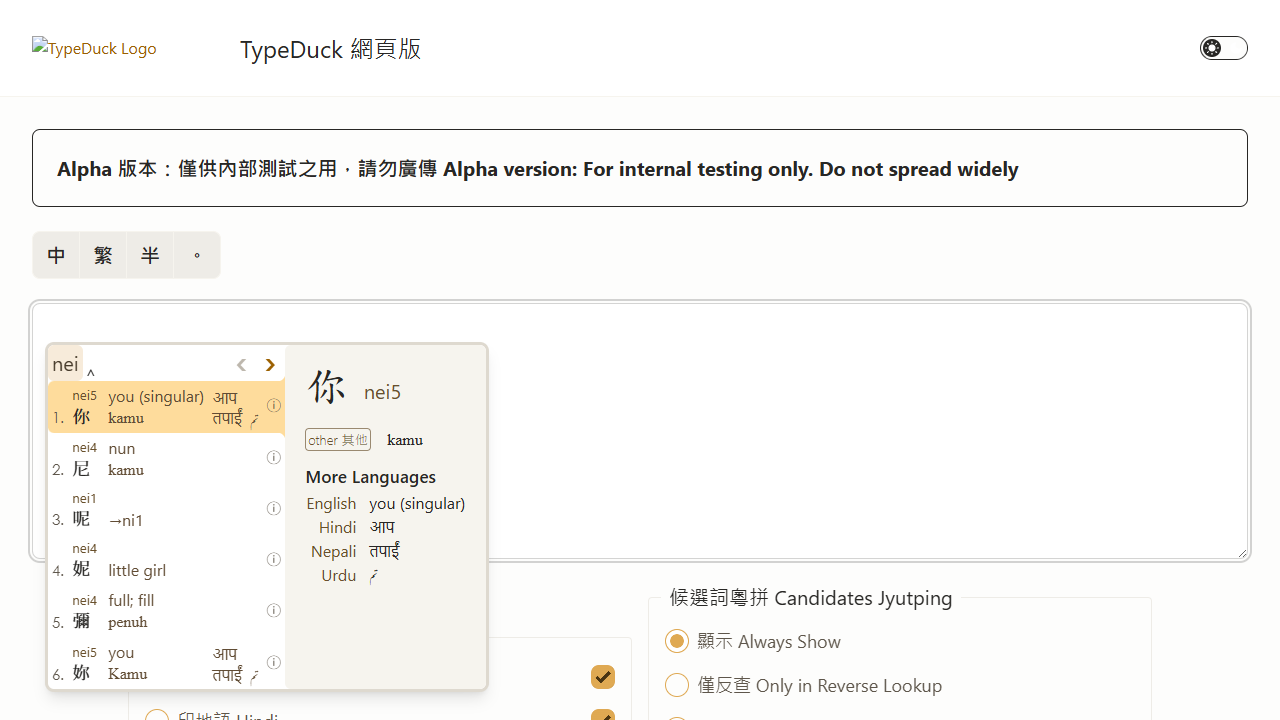
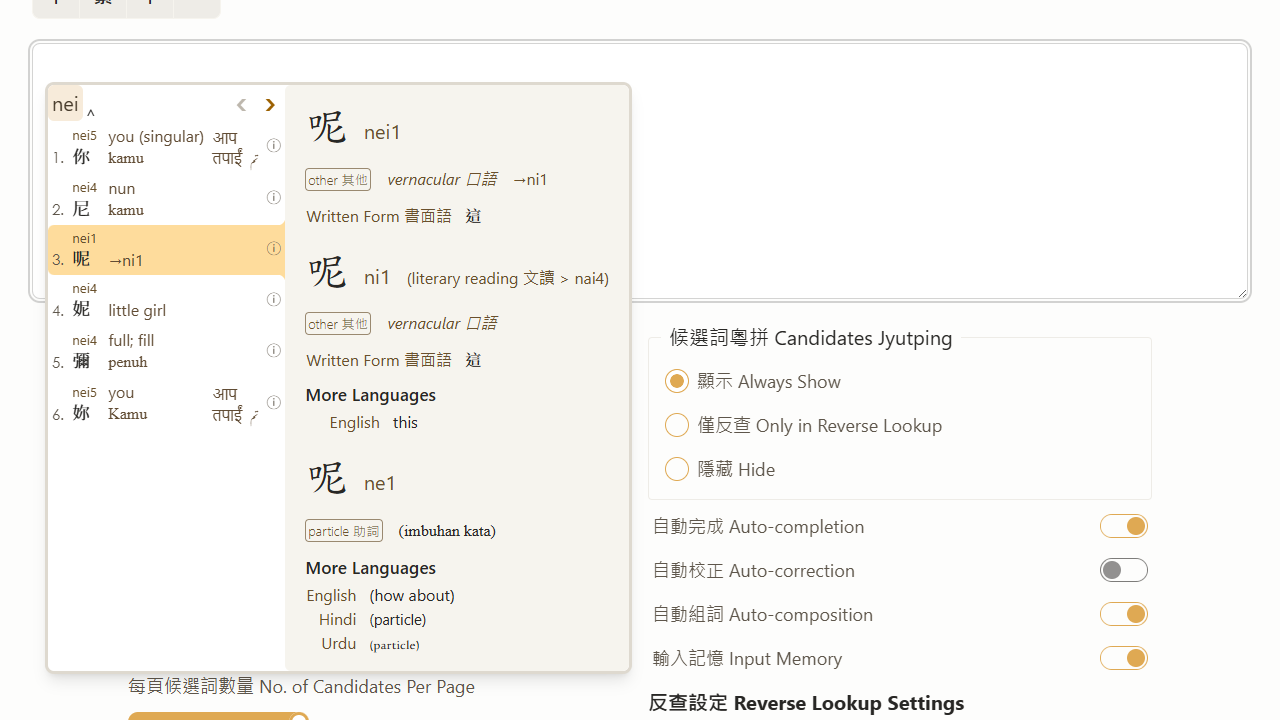
docs(01-02): replace dictionary screenshot with third candidate detail
- capture scrolled multilingual dictionary detail for third candidate 呢
- update fixture metadata to document scroll then hover behavior

diff --git a/.planning/product/TYPEDUCK-WEB-ALPHA-FIXTURES-2026-06-23.md b/.planning/product/TYPEDUCK-WEB-ALPHA-FIXTURES-2026-06-23.md
@@ -34,7 +34,7 @@ Supporting assets:
 - `web-alpha-fixtures/2026-06-23/screenshots/dictionary-detail-desktop-1280x720.png` - partial/blocked, no file created because the dictionary panel did not appear under controlled Playwright hover/touch attempts
 - `web-alpha-fixtures/2026-06-23/screenshots/settings-multilingual-indonesian-main-desktop-1280x720.png` - captured with all Display Languages enabled and Indonesian selected as main
 - `web-alpha-fixtures/2026-06-23/screenshots/candidate-multilingual-indonesian-main-desktop-1280x720.png` - captured with all Display Languages enabled and Indonesian selected as main
-- `web-alpha-fixtures/2026-06-23/screenshots/dictionary-detail-multilingual-indonesian-main-desktop-1280x720.png` - captured after physically moving the mouse over the first candidate cell
+- `web-alpha-fixtures/2026-06-23/screenshots/dictionary-detail-multilingual-indonesian-main-desktop-1280x720.png` - captured after scrolling down and physically moving the mouse over the third candidate cell for 呢
 
 ## Settings
 
@@ -105,7 +105,7 @@ Visual reference:
 - `web-alpha-fixtures/2026-06-23/screenshots/dictionary-detail-multilingual-indonesian-main-desktop-1280x720.png`
 - Viewport: 1280x720
 - Status: baseline partial, multilingual captured
-- Limitation: The original baseline dictionary-detail screenshot remains partial because the first automation did not move across a concrete candidate cell. The multilingual Indonesian-main dictionary screenshot was captured after physically moving the mouse across the first candidate cell, which matches the Web alpha behavior that prevents flicker when the pointer is merely resting on candidates during typing.
+- Limitation: The original baseline dictionary-detail screenshot remains partial because the first automation did not move across a concrete candidate cell. The multilingual Indonesian-main dictionary screenshot was captured after scrolling down and physically moving the mouse across the third candidate cell for 呢, which matches the Web alpha behavior that prevents flicker when the pointer is merely resting on candidates during typing.
 
 Dictionary fields the Windows UI must be able to represent when engine data exists:
 
@@ -156,7 +156,7 @@ Blocked/partial metadata is acceptable for Phase 1 when capture is unavailable o
 Dictionary capture interaction note:
 
 - The Web alpha intentionally requires actual mouse movement over a candidate before showing the dictionary panel. This prevents flicker while typing if the pointer happens to be resting on later candidates.
-- The successful capture moved the mouse across the first candidate cell after typing `nei`.
+- The successful capture scrolled down, then moved the mouse across the third candidate cell for 呢 after typing `nei`.
 
 Visual token evidence from `tailwind.config.ts` and `index.css`:
 

diff --git a/.planning/phases/01-identity-and-web-parity-contract/01-02-SUMMARY.md b/.planning/phases/01-identity-and-web-parity-contract/01-02-SUMMARY.md
@@ -89,7 +89,7 @@ status: complete
 - `.planning/product/web-alpha-fixtures/2026-06-23/screenshots/candidate-desktop-1280x720.png` - Captured candidate-list screenshot.
 - `.planning/product/web-alpha-fixtures/2026-06-23/screenshots/settings-multilingual-indonesian-main-desktop-1280x720.png` - Captured settings screenshot with all display languages enabled and Indonesian as main.
 - `.planning/product/web-alpha-fixtures/2026-06-23/screenshots/candidate-multilingual-indonesian-main-desktop-1280x720.png` - Captured candidate-list screenshot with multilingual definitions.
-- `.planning/product/web-alpha-fixtures/2026-06-23/screenshots/dictionary-detail-multilingual-indonesian-main-desktop-1280x720.png` - Captured dictionary-detail screenshot after moving over the first candidate cell.
+- `.planning/product/web-alpha-fixtures/2026-06-23/screenshots/dictionary-detail-multilingual-indonesian-main-desktop-1280x720.png` - Captured dictionary-detail screenshot after scrolling down and moving over the third candidate cell for 呢.
 
 ## Decisions Made
 
@@ -116,7 +116,7 @@ status: complete
 
 ## Issues Encountered
 
-- Initial dictionary-detail screenshot capture was partial because the automation did not move across a concrete candidate cell. A follow-up capture succeeded by moving the mouse over the first candidate cell, matching the Web alpha anti-flicker behavior.
+- Initial dictionary-detail screenshot capture was partial because the automation did not move across a concrete candidate cell. A follow-up capture succeeded by scrolling down and moving the mouse over the third candidate cell for 呢, matching the Web alpha anti-flicker behavior.
 
 ## Known Stubs
 